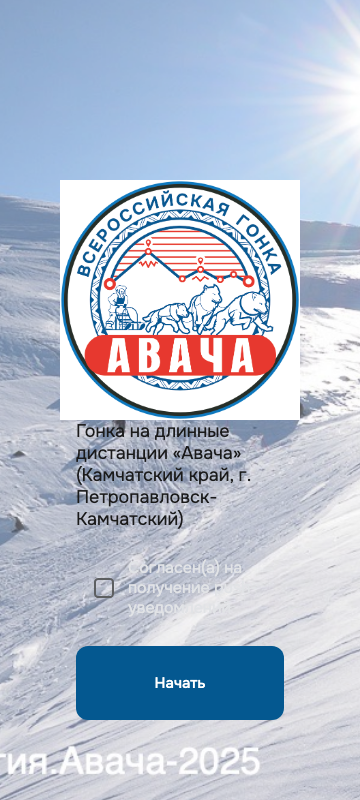
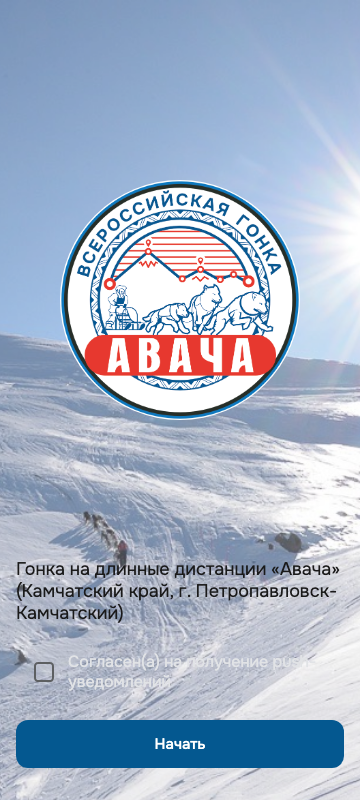
fix(v2): старт, исправления вёрстки

diff --git a/src/panels/StartPanel.tsx b/src/panels/StartPanel.tsx
@@ -70,7 +70,7 @@ export function StartPanel({ id, onBegin }: StartPanelProps) {
         <img className="start-screen__bg-img" src={startBg} alt="" decoding="async" />
         <div className="start-screen__bg-film" />
       </div>
-      <div className="start-screen__stack">
+      <div className="start-screen__logo-wrap">
         <img
           className="start-screen__logo"
           src={startLogo}
@@ -79,28 +79,28 @@ export function StartPanel({ id, onBegin }: StartPanelProps) {
           height={240}
           decoding="async"
         />
-        <div className="start-screen__form">
-          <p className="start-screen__title">
-            Гонка на длинные дистанции «Авача» (Камчатский край, г. Петропавловск-Камчатский)
-          </p>
-          <Checkbox
-            className="start-screen__consent"
-            checked={pushConsent}
-            onChange={(event) => setPushConsent(event.target.checked)}
-          >
-            Согласен(а) на получение push-уведомлений
-          </Checkbox>
-          <Button
-            className="start-screen__begin"
-            stretched
-            size="l"
-            mode="primary"
-            loading={pending}
-            onClick={() => void handleBegin()}
-          >
-            Начать
-          </Button>
-        </div>
+      </div>
+      <div className="start-screen__form">
+        <p className="start-screen__title">
+          Гонка на длинные дистанции «Авача» (Камчатский край, г. Петропавловск-Камчатский)
+        </p>
+        <Checkbox
+          className="start-screen__consent"
+          checked={pushConsent}
+          onChange={(event) => setPushConsent(event.target.checked)}
+        >
+          Согласен(а) на получение push-уведомлений
+        </Checkbox>
+        <Button
+          className="start-screen__begin"
+          stretched
+          size="l"
+          mode="primary"
+          loading={pending}
+          onClick={() => void handleBegin()}
+        >
+          Начать
+        </Button>
       </div>
     </Panel>
   )

diff --git a/src/index.css b/src/index.css
@@ -17,7 +17,7 @@ body {
 :root {
   --app-tabbar-height: 48px;
   --app-tabbar-total-height: calc(var(--app-tabbar-height) + env(safe-area-inset-bottom, 0px));
-  --start-screen-inline: 21.111%;
+  --start-screen-inline: 16px;
   --start-logo-top: 180px;
   --start-logo-size: 240px;
 }
@@ -107,10 +107,10 @@ body {
   position: absolute;
   left: 0;
   width: 100%;
-  height: 120%;
-  top: -18%;
+  height: 118%;
+  top: 0;
   object-fit: cover;
-  object-position: 60% 30%;
+  object-position: 60% 0;
 }
 
 .start-screen__bg-film {
@@ -120,35 +120,42 @@ body {
   pointer-events: none;
 }
 
-.start-screen__stack {
-  position: relative;
+.start-screen__logo-wrap {
+  position: absolute;
   z-index: 1;
-  display: flex;
-  flex-direction: column;
-  align-items: center;
-  box-sizing: border-box;
-  min-height: 100%;
-  padding-top: var(--start-logo-top);
-  padding-inline: var(--start-screen-inline);
+  top: var(--start-logo-top);
+  left: 50%;
+  width: var(--start-logo-size);
+  height: var(--start-logo-size);
+  overflow: hidden;
+  border-radius: 50%;
+  transform: translateX(-50%);
 }
 
 .start-screen__logo {
   display: block;
-  flex: none;
-  width: var(--start-logo-size);
-  height: var(--start-logo-size);
-  object-fit: contain;
+  width: 100%;
+  height: 100%;
+  object-fit: cover;
 }
 
 .start-screen__form {
+  position: absolute;
+  z-index: 2;
+  right: var(--start-screen-inline);
+  bottom: calc(32px + env(safe-area-inset-bottom, 0px));
+  left: var(--start-screen-inline);
   display: flex;
-  width: 100%;
-  flex: 1;
+  flex: none;
   flex-direction: column;
-  justify-content: flex-end;
+  align-items: stretch;
   gap: 16px;
   box-sizing: border-box;
-  padding-bottom: clamp(28px, 10vh, 80px);
+  width: auto;
+}
+
+.start-screen__form .start-screen__consent {
+  align-self: stretch;
 }
 
 .start-screen__title {
@@ -165,8 +172,11 @@ body {
 }
 
 .start-screen__begin.vkuiButton__sizeL {
+  flex: none;
+  align-self: stretch;
   height: 48px;
   min-height: 48px;
+  max-height: 48px;
   border-radius: 12px;
   background: var(--avacha-brand-dark-blue) !important;
 }
